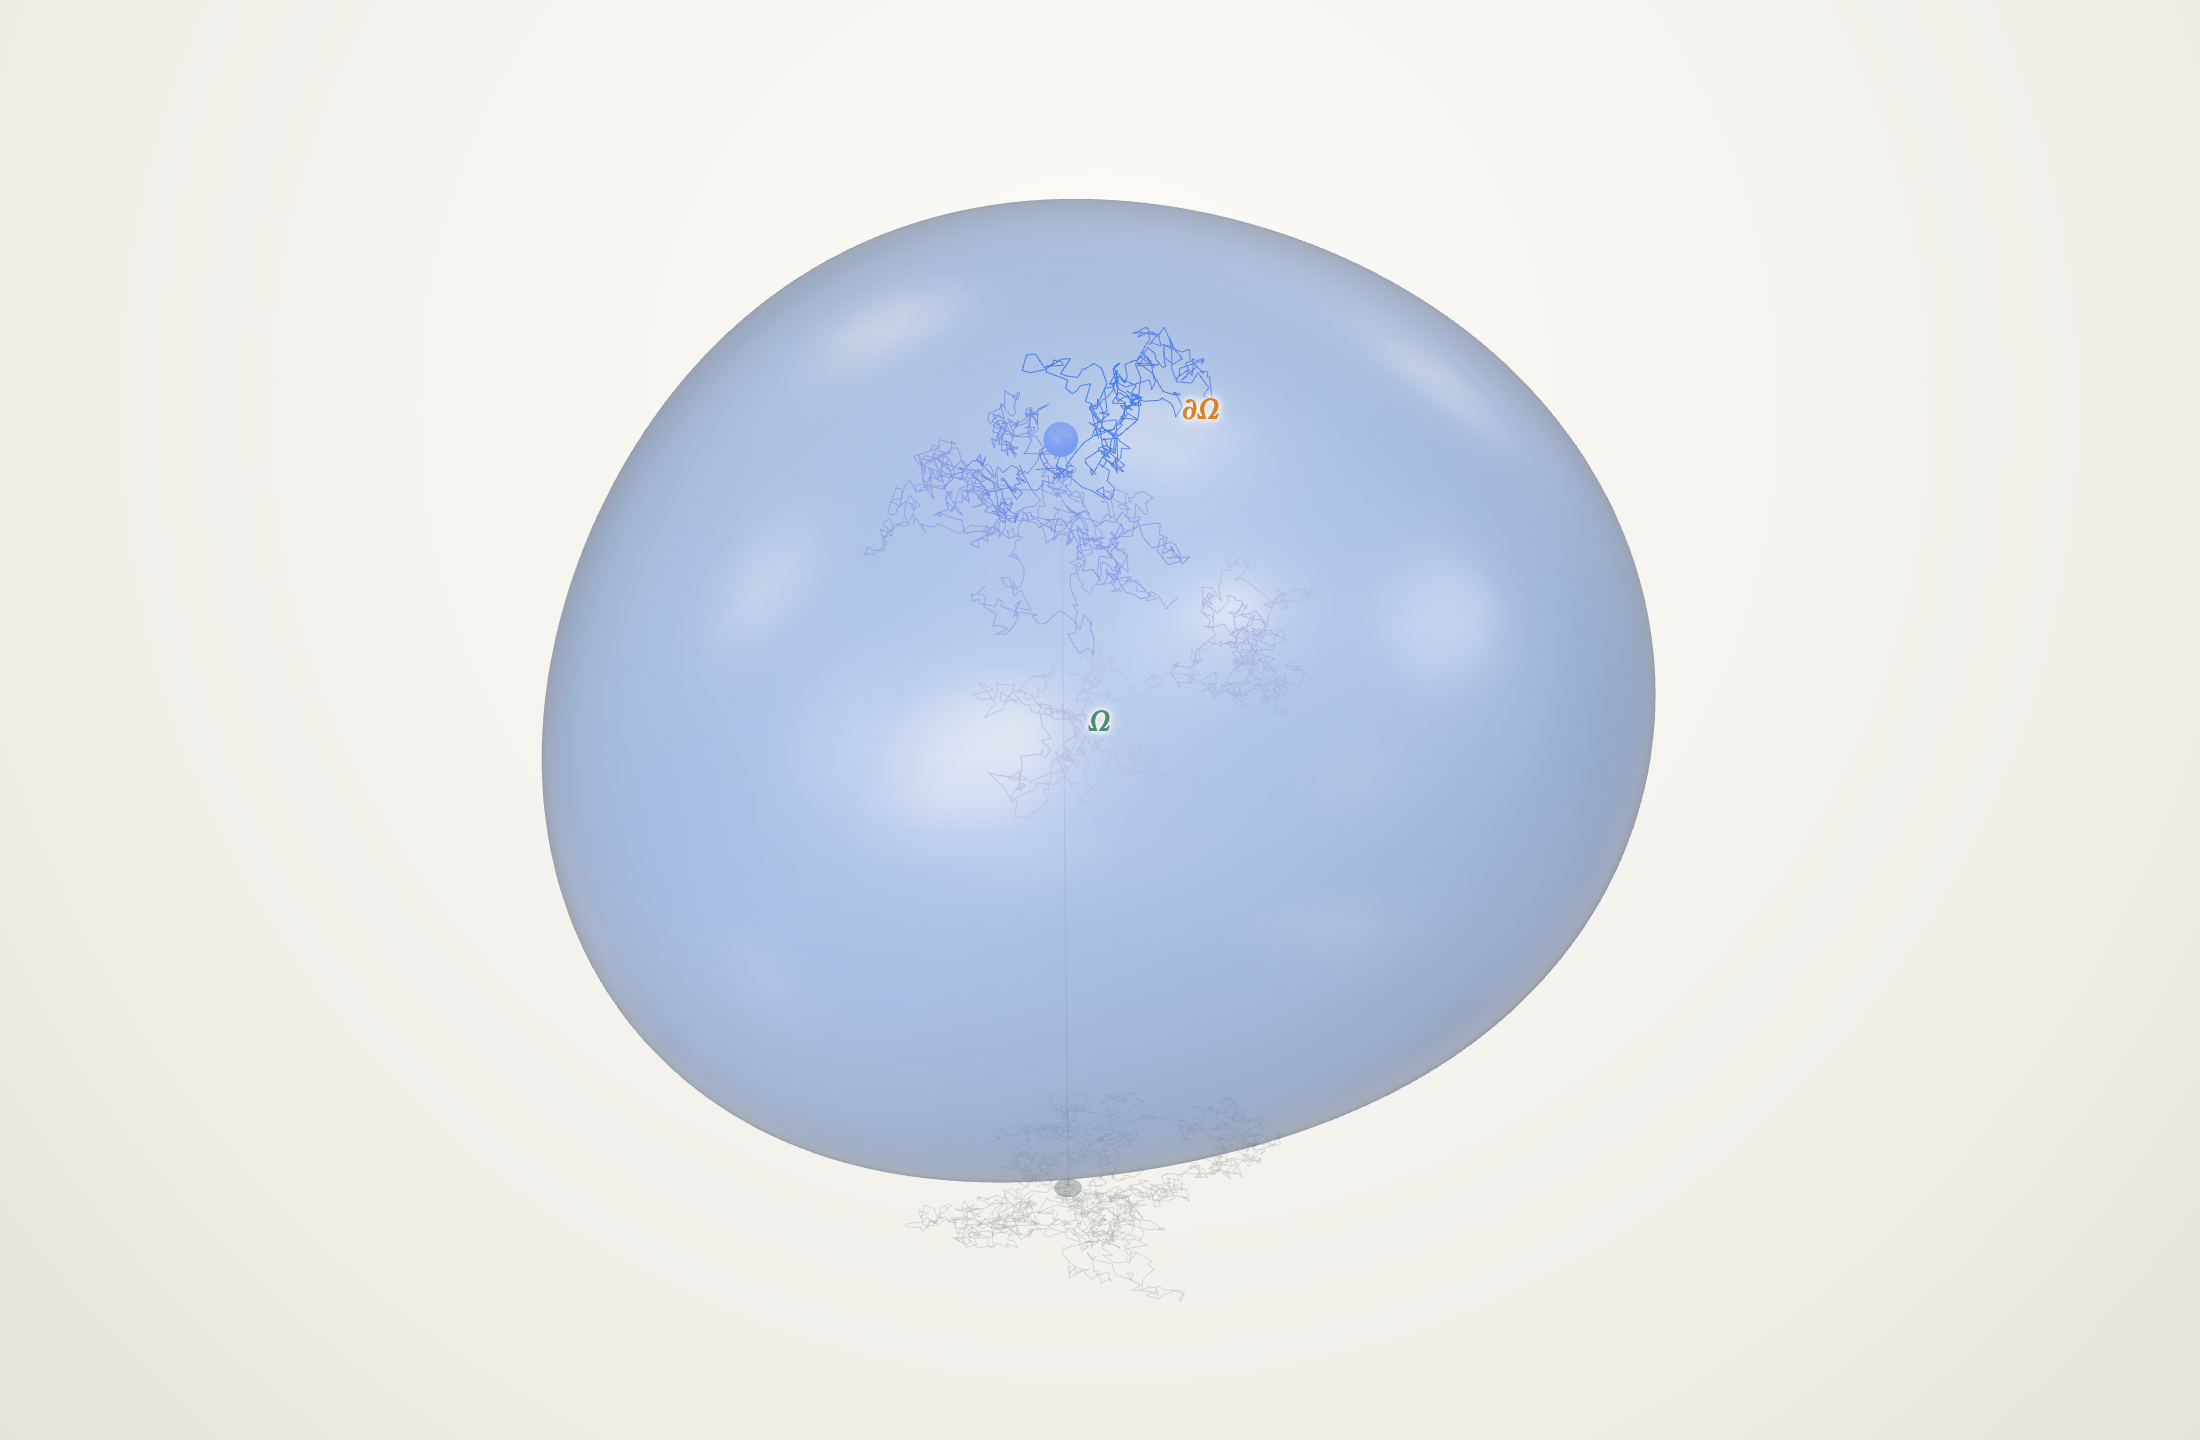
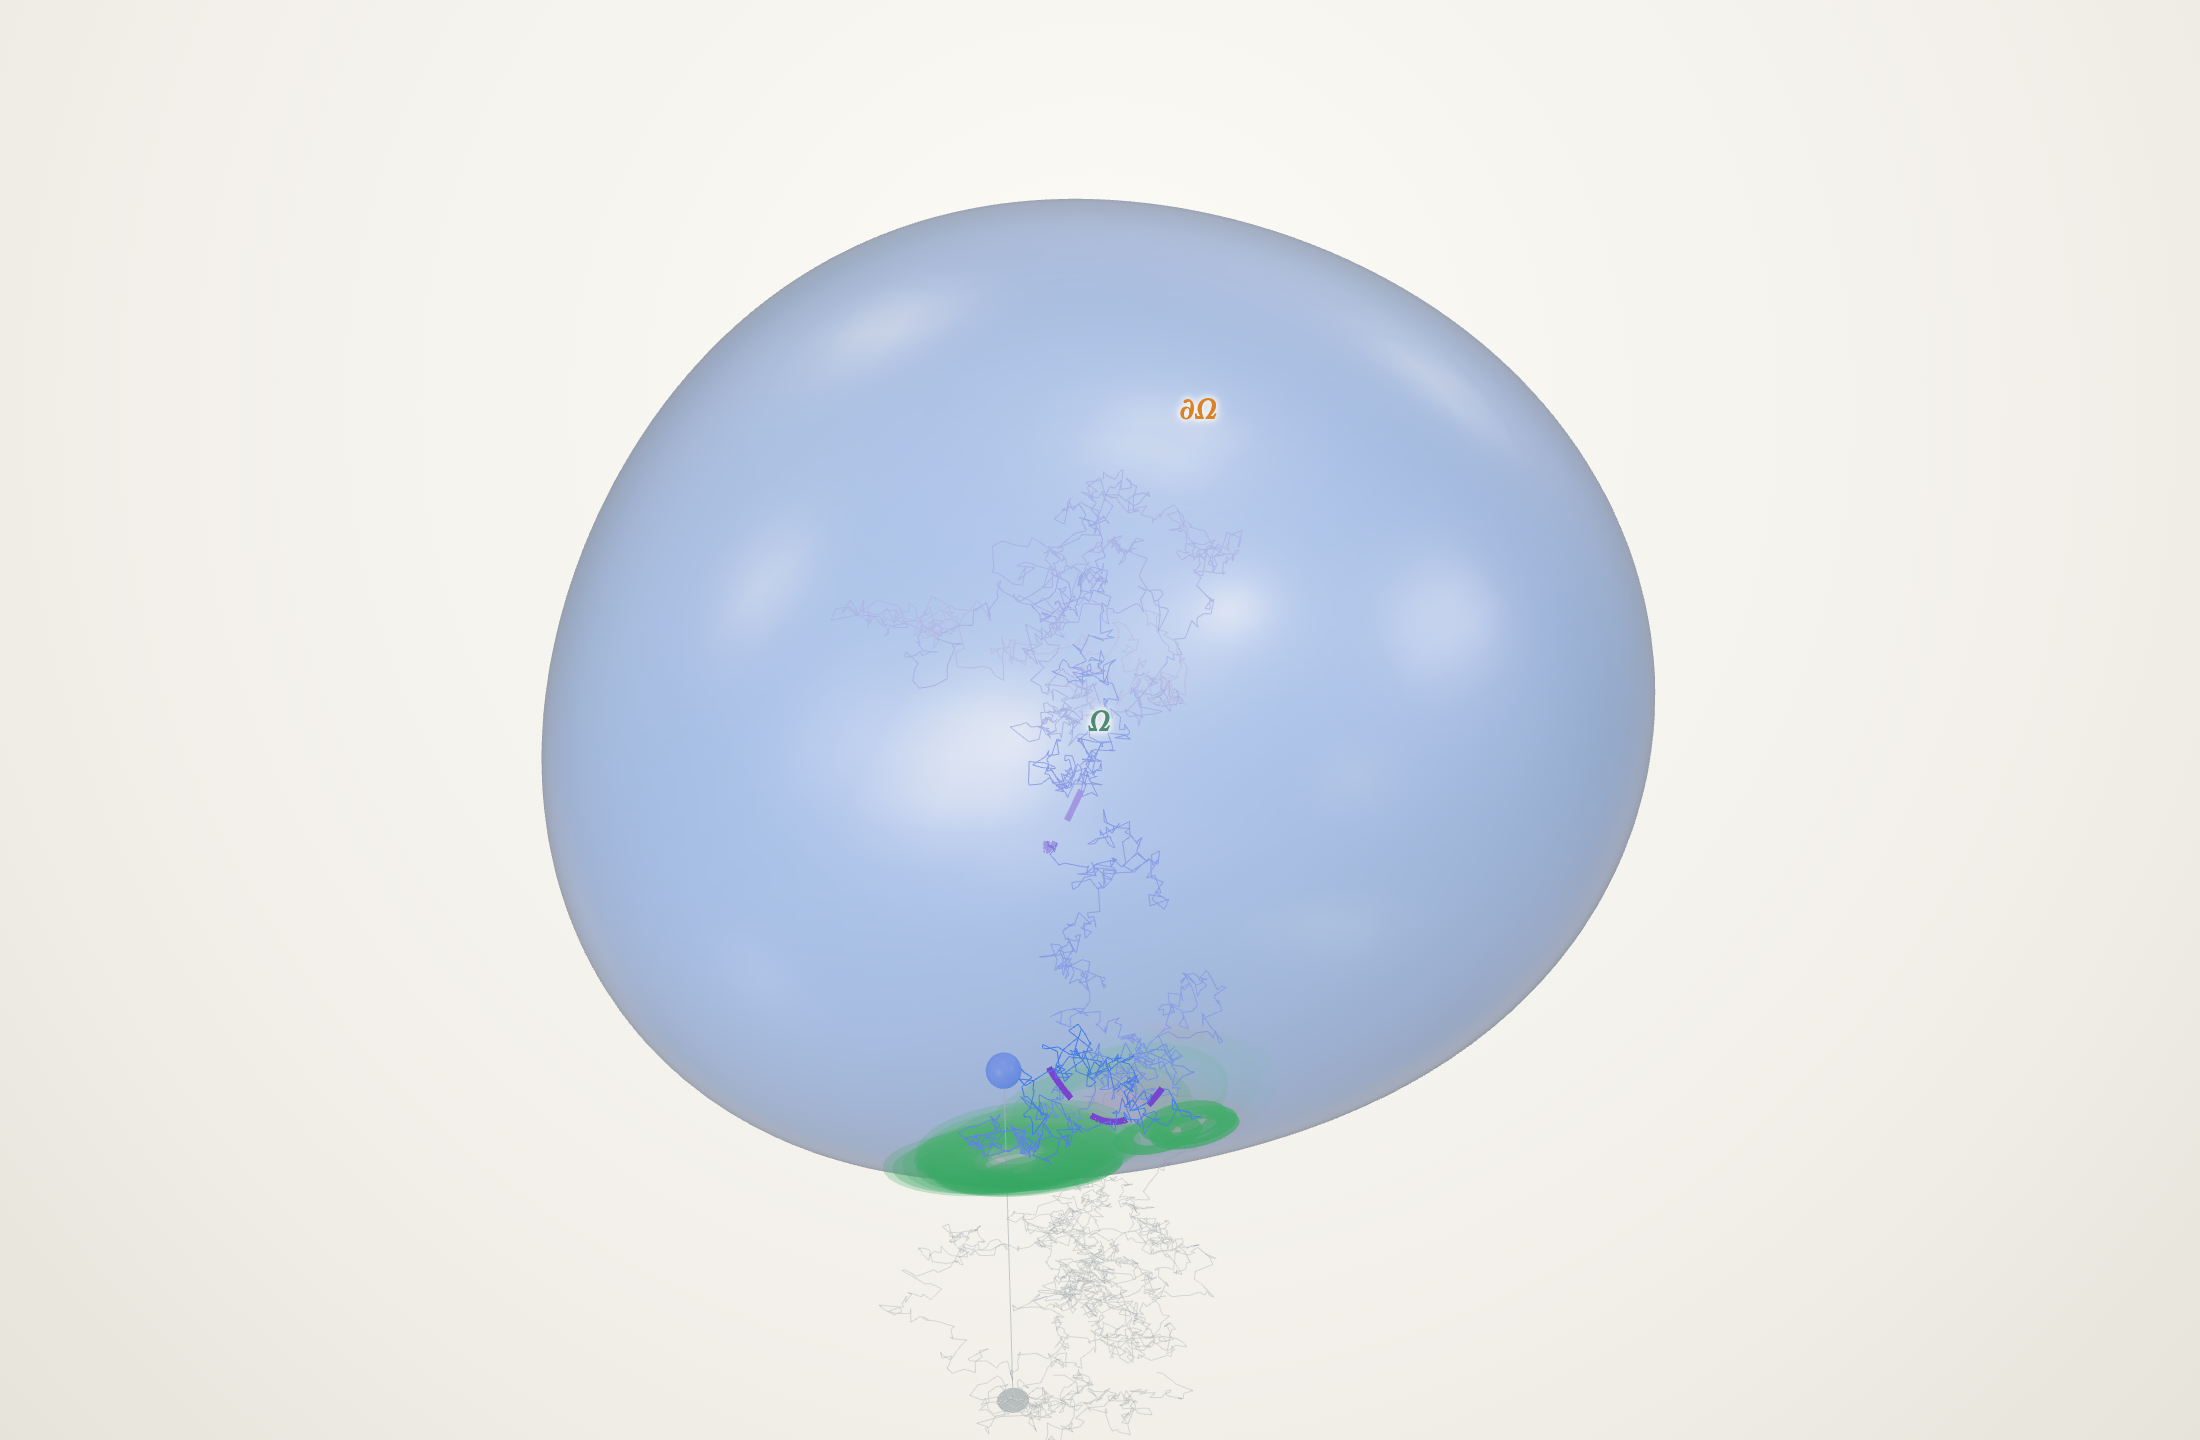
Add drift field to 3D jump-diffusion viz
Update jumpdiff3d with a configurable drift term and regenerate its poster.

diff --git a/viz/jumpdiff3d.html b/viz/jumpdiff3d.html
@@ -31,6 +31,8 @@
   .caption .sub sub, .legend sub { font-size: 0.72em; }
   .status { margin: 8px 0 0; font-size: clamp(12px,1.5vw,14px); color: var(--ink); font-weight: 600; }
   .status .st { color: var(--ink-soft); font-weight: 500; }
+  .formula { margin: 6px 0 0; font-family: "Iowan Old Style", "Palatino Linotype", Palatino, Georgia, serif; font-style: italic; font-size: clamp(12px,1.55vw,15px); color: var(--ink); }
+  .formula b { font-style: normal; font-weight: 600; color: #8458d6; }
   .legend { margin: 8px 0 0; font-size: clamp(11px,1.35vw,13px); display: flex; gap: 13px; flex-wrap: wrap; color: var(--ink-soft); }
   .legend .k { display: inline-flex; align-items: center; gap: 6px; }
   .legend .sw { width: 15px; height: 11px; border-radius: 3px; display: inline-block; border: 1px solid var(--hairline); }
@@ -83,6 +85,7 @@
       the rule in the panel; the translucent shell lets you watch the path inside.
     </p>
     <p class="status" id="status"></p>
+    <p class="formula" id="formula"></p>
     <p class="legend" id="legend"></p>
   </div>
   <div class="hint" id="hint">drag to rotate &nbsp;·&nbsp; scroll to zoom</div>
@@ -297,6 +300,7 @@
   const params = {
     domain: 'blob', mode: 'reflect',
     diffusion: 0.30, jumpRate: 0.9, jumpSigma: 0.6,
+    driftField: 'none', driftStrength: 1.0,
     dwell: 0.7, tangDiff: 2.2, absorbPause: 0.9,
     speed: 1.0, showShell: true, showWire: false, showShadow: true, rotateSpeed: 1.4, heatmap: true,
     reset: () => resetSim(),
@@ -416,6 +420,19 @@
   }
   const expRand = mean => -mean * Math.log(Math.random() || 1e-9);
 
+  // drift field b(x) for the drift-diffusion  dX = b(X) dt + √(2D) dW
+  const _drift = new THREE.Vector3();
+  function drift(p, out) {
+    const s = params.driftStrength;
+    switch (params.driftField) {
+      case 'swirl':    return out.set(-p.y, p.x, 0).multiplyScalar(s);          // circulation about the z-axis
+      case 'inward':   return out.copy(dom.center).sub(p).multiplyScalar(s);    // confine toward the centre
+      case 'outward':  return out.copy(p).sub(dom.center).multiplyScalar(s);    // push toward ∂Ω
+      case 'downward': return out.set(0, -s, 0);                                // gravity / sedimentation
+      default:         return out.set(0, 0, 0);
+    }
+  }
+
   function resetSim() {
     trail = []; cut = []; pos.copy(dom.center); state = 'interior'; pendingCut = true;   // center is inside (torus: in the tube)
     for (const e of ephem) { e.obj.geometry?.dispose?.(); dyn.remove(e.obj); } ephem.length = 0;
@@ -463,6 +480,8 @@
         normalAt(bndPt, _nrm);
         _gv.set(gauss(), gauss(), gauss()); _gv.addScaledVector(_nrm, -_gv.dot(_nrm));   // project out the normal part
         bndPt.addScaledVector(_gv, Math.sqrt(2 * params.tangDiff * dt));
+        drift(bndPt, _drift); _drift.addScaledVector(_nrm, -_drift.dot(_nrm));            // tangential part of the drift
+        bndPt.addScaledVector(_drift, dt);
         projectToBoundary(bndPt); pos.copy(bndPt); pushTrail();
       }
       if (dwellT <= 0) {
@@ -479,7 +498,8 @@
       pullInside(to); jumpArc(from, to); pos.copy(to); pendingCut = true; pushTrail(); return;
     }
     const s = Math.sqrt(2 * params.diffusion * dt);
-    pos.x += gauss() * s; pos.y += gauss() * s; pos.z += gauss() * s;
+    drift(pos, _drift);
+    pos.x += gauss() * s + _drift.x * dt; pos.y += gauss() * s + _drift.y * dt; pos.z += gauss() * s + _drift.z * dt;
     if (!inside(pos)) handleBoundary();
     pushTrail();
   }
@@ -556,7 +576,24 @@
     const st = state === 'interior' ? 'diffusing in Ω'
       : state === 'boundary' ? (params.mode === 'stickyDiffuse' ? 'stuck on ∂Ω, sliding' : 'stuck on ∂Ω')
       : 'absorbed — respawning';
-    statusEl.innerHTML = 'domain: ' + dom.name + ' &nbsp;·&nbsp; rule: ' + MODE_NAME[params.mode] + ' &nbsp;·&nbsp; <span class="st">' + st + '</span>';
+    const dr = params.driftField !== 'none' ? ' &nbsp;·&nbsp; drift: ' + params.driftField : '';
+    statusEl.innerHTML = 'domain: ' + dom.name + ' &nbsp;·&nbsp; rule: ' + MODE_NAME[params.mode] + dr + ' &nbsp;·&nbsp; <span class="st">' + st + '</span>';
+    updateFormula();
+  }
+  const formulaEl = document.getElementById('formula');
+  function driftRHS() {
+    const s = params.driftStrength.toFixed(2);
+    switch (params.driftField) {
+      case 'swirl':    return s + ' (−y, x, 0)';
+      case 'inward':   return s + ' (c − X<sub>t</sub>)';
+      case 'outward':  return s + ' (X<sub>t</sub> − c)';
+      case 'downward': return '(0, −' + s + ', 0)';
+      default:         return '0';
+    }
+  }
+  function updateFormula() {
+    const D = params.diffusion.toFixed(2), c = params.driftField === 'inward' || params.driftField === 'outward' ? ',&nbsp; c = centre of Ω' : '';
+    formulaEl.innerHTML = 'dX<sub>t</sub> = <b>b</b>(X<sub>t</sub>) dt + √(2·' + D + ') dW<sub>t</sub> &nbsp;&nbsp; with &nbsp; <b>b</b>(X<sub>t</sub>) = ' + driftRHS() + c;
   }
 
   function applyTheme(theme) {
@@ -593,10 +630,13 @@
     'Jump to interior': 'jump'
   }).name('boundary rule ∂Ω').onChange(resetSim);
   const fP = gui.addFolder('Jump-diffusion');
-  fP.add(params, 'diffusion', 0.05, 1.0, 0.01).name('diffusion D');
+  fP.add(params, 'diffusion', 0.05, 1.0, 0.01).name('diffusion D').onChange(updateFormula);
   fP.add(params, 'jumpRate', 0, 3, 0.05).name('jump rate λ');
   fP.add(params, 'jumpSigma', 0.15, 1.2, 0.05).name('jump size');
   fP.add(params, 'speed', 0.2, 3, 0.1).name('speed');
+  const fD = gui.addFolder('Drift field b(x)');
+  fD.add(params, 'driftField', { 'none': 'none', 'swirl (around z)': 'swirl', 'inward (confine)': 'inward', 'outward (to ∂Ω)': 'outward', 'downward (gravity)': 'downward' }).name('field').onChange(updateStatus);
+  fD.add(params, 'driftStrength', 0, 3, 0.05).name('strength').onChange(updateFormula);
   const fB = gui.addFolder('Boundary');
   fB.add(params, 'dwell', 0.1, 3, 0.05).name('sticky dwell (mean)');
   fB.add(params, 'tangDiff', 0.2, 6, 0.1).name('along-∂Ω diffusion');